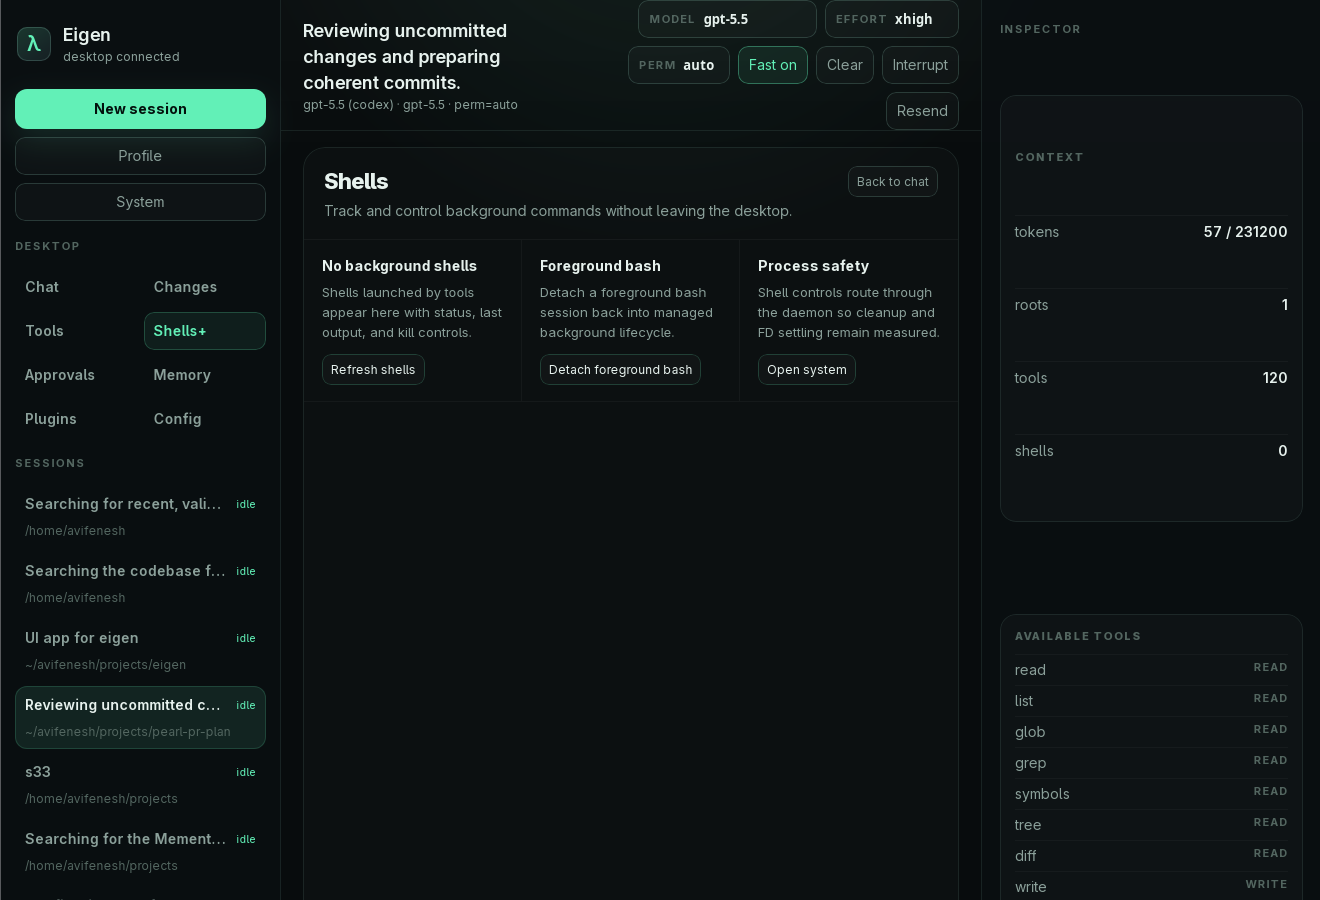
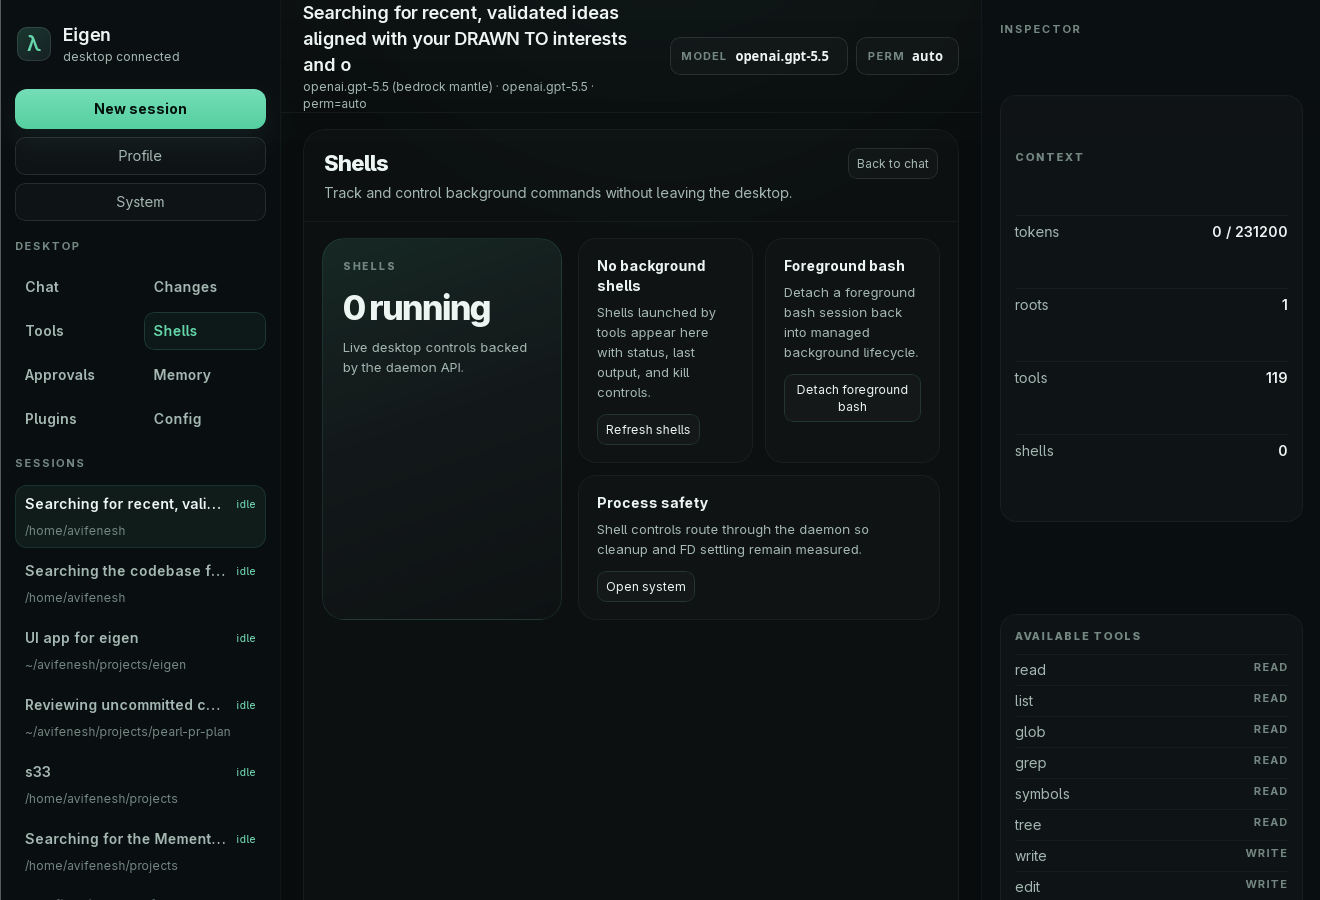
style(gui): compose feature surfaces
Squash merge composed feature pages and refreshed real-Wails Shells artifact.

diff --git a/internal/gui/static/styles.css b/internal/gui/static/styles.css
@@ -219,8 +219,18 @@ button { cursor: pointer; }
 }
 .feature-title { font-size: 22px; font-weight: 760; letter-spacing: -.045em; }
 .feature-copy { color: var(--muted); margin-top: 4px; max-width: 680px; }
-.feature-grid { display: grid; grid-template-columns: repeat(3, minmax(0, 1fr)); gap: 12px; padding: 16px 18px 18px; }
-.feature-cell { min-height: 128px; padding: 17px 18px; border: 1px solid rgba(216,230,224,.055); border-radius: 18px; background: rgba(255,255,255,.014); }
+.feature-composition { display: grid; grid-template-columns: 240px 1fr; gap: 16px; padding: 16px 18px 18px; }
+.feature-hero { min-height: 246px; border-radius: 22px; padding: 20px; background: linear-gradient(160deg, rgba(101,214,170,.12), rgba(170,200,220,.045) 48%, rgba(255,255,255,.012)); border: 1px solid rgba(101,214,170,.13); }
+.hero-label { color: var(--faint); text-transform: uppercase; letter-spacing: .14em; font-size: 10px; font-weight: 800; }
+.hero-metric { margin-top: 18px; color: var(--text); font-size: 34px; line-height: 1; letter-spacing: -.06em; font-weight: 780; }
+.hero-copy { margin-top: 12px; color: var(--muted); font-size: 13px; line-height: 1.55; }
+.feature-grid { display: grid; grid-template-columns: repeat(6, minmax(0, 1fr)); gap: 12px; }
+.feature-cell { min-height: 116px; padding: 17px 18px; border: 1px solid rgba(216,230,224,.055); border-radius: 18px; background: rgba(255,255,255,.014); }
+.feature-cell-1 { grid-column: span 3; }
+.feature-cell-2 { grid-column: span 3; }
+.feature-cell-3 { grid-column: span 6; min-height: 98px; }
+.feature-tools .feature-grid, .feature-config .feature-grid { grid-template-columns: repeat(2, minmax(0, 1fr)); }
+.feature-tools .feature-cell, .feature-config .feature-cell { grid-column: auto; }
 .feature-cell strong { display: block; color: var(--text); margin-bottom: 6px; }
 .feature-cell span { color: var(--muted); font-size: 13px; line-height: 1.55; }
 .feature-actions { display: flex; flex-wrap: wrap; gap: 7px; margin-top: 12px; }

diff --git a/internal/gui/static/app.js b/internal/gui/static/app.js
@@ -366,7 +366,10 @@ function renderFeatureWorkspace() {
     ]],
   };
   const [title, copy, cells] = featureMap[state.feature] || featureMap.changes;
-  featureWorkspace.innerHTML = `<div class="feature-head"><div><div class="feature-title">${escapeHtml(title)}</div><div class="feature-copy">${escapeHtml(copy)}</div></div><button class="ghost compact" type="button" data-feature-close>Back to chat</button></div><div class="feature-grid">${cells.map(([k, v, action]) => `<div class="feature-cell"><strong>${escapeHtml(k)}</strong><span>${escapeHtml(v)}</span>${action ? `<div class="feature-actions">${action}</div>` : ''}</div>`).join('')}</div>`;
+  const cellsHTML = cells.map(([k, v, action], i) => `<div class="feature-cell feature-cell-${i + 1}"><strong>${escapeHtml(k)}</strong><span>${escapeHtml(v)}</span>${action ? `<div class="feature-actions">${action}</div>` : ''}</div>`).join('');
+  const featureClass = `feature-surface feature-${escapeAttr(state.feature)}`;
+  const heroMetric = state.feature === 'tools' ? `${tools.length || '—'} tools` : state.feature === 'shells' ? `${shells.length} running` : state.feature === 'approvals' ? `${pending.length} pending` : state.feature === 'memory' ? `${roots.length} roots` : state.feature === 'config' ? (modelInput?.value || 'model') : state.feature;
+  featureWorkspace.innerHTML = `<div class="${featureClass}"><div class="feature-head"><div><div class="feature-title">${escapeHtml(title)}</div><div class="feature-copy">${escapeHtml(copy)}</div></div><button class="ghost compact" type="button" data-feature-close>Back to chat</button></div><div class="feature-composition"><aside class="feature-hero"><div class="hero-label">${escapeHtml(state.feature)}</div><div class="hero-metric">${escapeHtml(heroMetric)}</div><div class="hero-copy">Live desktop controls backed by the daemon API.</div></aside><div class="feature-grid">${cellsHTML}</div></div></div>`;
   featureWorkspace.querySelector('[data-feature-close]')?.addEventListener('click', () => setFeature('chat'));
   featureWorkspace.querySelectorAll('[data-feature-action]').forEach(btn => btn.addEventListener('click', () => runFeatureAction(btn)));
 }

diff --git a/internal/gui/static/index.html b/internal/gui/static/index.html
@@ -4,7 +4,7 @@
     <meta charset="utf-8" />
     <meta name="viewport" content="width=device-width, initial-scale=1" />
     <title>Eigen</title>
-    <link rel="stylesheet" href="/styles.css?v=dense-panes" />
+    <link rel="stylesheet" href="/styles.css?v=feature-composition" />
   </head>
   <body>
     <div id="app" class="shell">
@@ -205,6 +205,6 @@
       </div>
     </div>
 
-    <script src="/app.js?v=dense-panes"></script>
+    <script src="/app.js?v=feature-composition"></script>
   </body>
 </html>